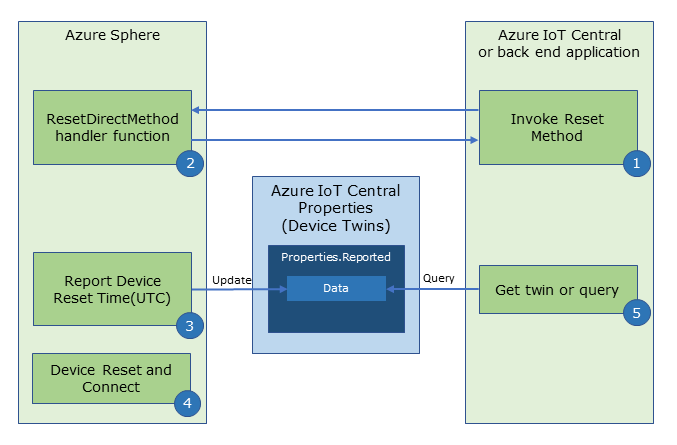
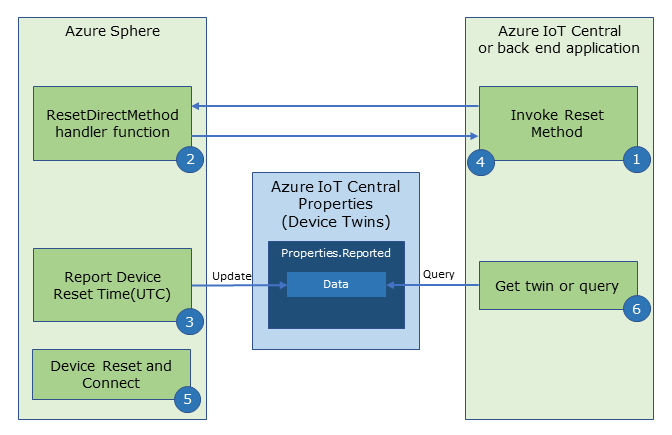
doco

Changed region(s): [[0.0, 0.0299, 1.0, 0.9862], [0.75, 0.2391, 0.9062, 0.3287]]

diff --git a/zdocs/Lab_3_Control_Device_with_Device_Twins_and_Direct_Methods/README.md b/zdocs/Lab_3_Control_Device_with_Device_Twins_and_Direct_Methods/README.md
@@ -274,9 +274,11 @@ The following outlines how the **ResetDirectMethod** handler function found in *
 
 3. The current UTC time is reported to Azure IoT using a Device Twin Binding property named **DeviceResetUTC**.
 
-4. The Direct Method responds back with an HTTP status code and a response message and the device is reset.
+4. The Direct Method responds back with an HTTP status code and a response message
 
-5. Azure IoT Central queries and displays the Device Twin reported property **DeviceResetUTC**.
+5. The device is reset.
+
+6. Azure IoT Central queries and displays the Device Twin reported property **DeviceResetUTC**.
 
 ![](resources/azure-sphere-method-and-twin.png)
 
